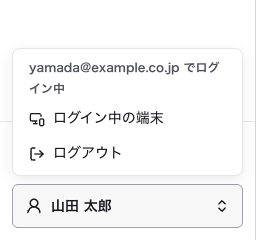
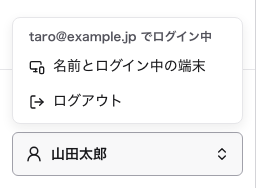
Document members and invitations in the user guide

diff --git a/docs/guide/members.md b/docs/guide/members.md
@@ -1,0 +1,91 @@
+# メンバーと招待
+
+管理画面を使える人（メンバー）を増やしたり、役割を変えたり、外したりします。
+**管理者だけ** が使えます。編集者には、メニューに「メンバー」が出ません。
+
+![「メンバー」の画面。「メンバーの一覧」に名前・メール・役割・追加した日が並び、下に「返事待ちの招待」がある](./images/members.png)
+
+## 新しい人を招待するには
+
+1. メニューの「メンバー」を押します。
+2. 右上の「メンバーを招待」を押します。
+3. 招待する人の **メールアドレス** を入れ、**役割**（編集者か管理者）を選びます。
+4. 「招待のメールを送る」を押します。
+
+![「メンバーを招待」のダイアログ。メールアドレスの欄と、編集者・管理者の選択、「招待のメールを送る」ボタン](./images/member-invite.png)
+
+招待した人には、「「（サイトの名前）」の管理画面に招待されました」という件名のメールが届きます。
+その人がメールのリンクを開いて「参加する」を押すと、メンバーになります。
+それまでは、画面の下の「返事待ちの招待」に出ます。
+
+覚えておくこと：
+
+- 招待のリンクは **7日間** 使えます。**1回だけ** 使えます。
+- 招待された人にパスワードは要りません。Pagewright を初めて使う人も、リンクを開いて「参加する」を押すだけで使い始められます。
+- 同じメールアドレスをもう一度招待すると、前の招待は取り消され、新しい役割で招待し直します（前のメールのリンクは使えなくなります）。
+- すでにメンバーになっている人は招待できません。役割を変えたいときは、下の「役割を変えるには」を見てください。
+- 1日に送れる招待のメールの数には上限があります（同じメールアドレスへは1日5通まで）。
+
+### どちらの役割にするか
+
+| できること | 管理者 | 編集者 |
+| --- | --- | --- |
+| 記事・固定ページを書く、公開する | ○ | ○ |
+| カテゴリ・タグ・画像を管理する | ○ | ○ |
+| お問い合わせを見る | ○ | × |
+| サイトの設定を変える | ○ | × |
+| メンバーを招待する、役割を変える、外す | ○ | × |
+
+迷ったら **編集者** にしておき、必要になったら管理者に変えるのがおすすめです。
+
+## 招待のメールが届かないと言われたら
+
+1. 迷惑メールのフォルダを見てもらってください。
+2. 「返事待ちの招待」のメールアドレスにまちがいがないか確かめます。まちがっていたら「取り消す」を押し、正しいアドレスで招待し直します。
+3. 合っていれば「もう一度送る」を押します。新しいリンクを送り、有効期限も7日後に延びます（前に送ったリンクは使えなくなります）。
+
+7日が過ぎて期限が切れた招待には「期限切れ」と出ます。「もう一度送る」で送り直せます。
+期限切れの招待は、30日たつと一覧から自動で消えます。
+
+## 招待を取り消すには
+
+「返事待ちの招待」で、その行の「取り消す」を押します。確認が出たら、もう一度「取り消す」を押します。
+取り消した招待のリンクは使えなくなります。
+
+## 役割を変えるには
+
+「メンバーの一覧」で、その人の行の「管理者にする」か「編集者にする」を押します。すぐに変わります。
+
+- 自分を編集者にするときは、確認が出ます。編集者になると、この画面は使えなくなります。管理者に戻るには、ほかの管理者に頼んでください。
+- サイトには、いつも **1人以上の管理者** が必要です。管理者が自分1人のときは、自分を編集者にできません。先にほかの人を管理者にしてください。
+
+## メンバーを外すには
+
+担当を外れた人や、退職した人は、サイトから外します。
+
+1. 「メンバーの一覧」で、その人の行の「外す」を押します。
+2. 確認が出たら、もう一度「外す」を押します。
+
+- 外した人は、ログイン中でも、すぐにこのサイトの管理画面を使えなくなります。
+- **その人が書いた記事・固定ページや、入れた画像は消えません。** サイトにそのまま残り、ほかのメンバーが続けて直せます。
+- その人がほかのサイトのメンバーでもあるときは、そちらはそのまま使えます。
+- もう一度招待すれば、また参加できます。
+- 最後の管理者は外せません。
+
+自分がサイトから抜けるときは、自分の行の「抜ける」を押します。抜けたあとに戻るには、ほかの管理者にもう一度招待してもらいます。
+
+## 招待されたときは
+
+招待のメールのリンクを開くと、「サイトへの招待」の画面が出ます。
+
+![「サイトへの招待」の画面。サイト「山田工務店」の管理画面に、編集者として招待されていることと、名前の欄、「参加する」ボタン](./images/invite-accept.png)
+
+1. どのサイトに、どの役割で招待されたかを確かめます。
+2. 初めて Pagewright を使うときは、「あなたの名前」を入れます（空のままでもかまいません。あとから変えられます）。
+3. 「参加する」を押します。
+
+そのままログインして、招待されたサイトのホームが出ます。次からは、ふつうの[ログイン](./login.md)で入れます。
+
+- リンクを開いただけでは参加しません。「参加する」を押したときに参加します。
+- 別のメールアドレスでログインしているときは、「いまは別のメールアドレスでログインしています」と出ます。「ログアウトする」を押してから、「参加する」を押してください。
+- 心当たりのない招待なら、何もせずに画面を閉じてください。

diff --git a/docs/guide/login.md b/docs/guide/login.md
@@ -3,6 +3,8 @@
 Pagewright にはパスワードがありません。
 登録したメールアドレスに届く「ログイン用のリンク」でログインします。
 
+初めて使うときは、サイトの管理者から届く招待のメールのリンクを開いて「参加する」を押します（「[招待されたときは](./members.md#招待されたときは)」）。そのままログインできます。
+
 ## ログインするには
 
 1. 管理画面のアドレス（例：`https://admin.example.co.jp/admin/`）を開きます。
@@ -34,18 +36,29 @@ Pagewright にはパスワードがありません。
 1. メニューのいちばん下の、自分の名前を押します。
 2. 「ログアウト」を押します。
 
-![自分の名前を押して開いたメニュー。「ログイン中の端末」と「ログアウト」がある](./images/account-menu.png)
+![自分の名前を押して開いたメニュー。「名前とログイン中の端末」と「ログアウト」がある](./images/account-menu.png)
 
 共用のパソコンで使ったときは、終わったら必ずログアウトしてください。
+
+## 名前を変えるには
+
+メニューのいちばん下や、「メンバー」の一覧に出る自分の名前を変えられます。
+
+1. メニューのいちばん下の、自分の名前を押します。
+2. 「名前とログイン中の端末」を押します。
+3. 「名前」の「あなたの名前」を直して、「名前を保存する」を押します。
+
+![「アカウント」の画面。上に「名前」の欄と「名前を保存する」ボタン、下にログイン中の端末の一覧](./images/account.png)
+
+- 名前は50文字までです。空にすると、名前の代わりにメールアドレスが出ます。
+- 2つ以上のサイトのメンバーのときは、どのサイトでも同じ名前になります。
 
 ## ログイン中の端末を確かめるには
 
 自分のアカウントでログインしているパソコンやスマートフォンの一覧を見られます。
 
 1. メニューのいちばん下の、自分の名前を押します。
-2. 「ログイン中の端末」を押します。
-
-![「アカウント」の画面。ログイン中の端末の一覧に、この端末、iPhone の Safari、Windows の Edge が並ぶ](./images/account.png)
+2. 「名前とログイン中の端末」を押します。「アカウント」の画面の「ログイン中の端末」に一覧が出ます。
 
 一覧には「端末」「最後に使った日時」「ログインした日時」が出ます。いま使っている端末には「この端末」と付きます。
 

diff --git a/docs/guide/troubleshooting.md b/docs/guide/troubleshooting.md
@@ -23,7 +23,21 @@
 
 ### 「管理できるサイトがありません」と出る
 
-そのメールアドレスは登録されていますが、どのサイトにも入っていません。サイトの管理者に連絡してください。
+そのメールアドレスは登録されていますが、どのサイトにも入っていません（メンバーから外された場合もこうなります）。
+サイトの管理者に、そのメールアドレスを招待してもらってください（「[メンバーと招待](./members.md)」）。
+
+### 「この招待のリンクは使えません」と出る
+
+招待のリンクは **1回だけ** 使えます。次のどれかです。
+
+- すでに参加している：ふつうに[ログイン](./login.md)してください。
+- 招待が取り消された、または新しい招待のメールが送られた：いちばん新しいメールのリンクを使ってください。
+
+「招待の有効期限が切れています」と出たときは、招待した人に「もう一度送る」を押してもらってください。
+
+### 招待のリンクを開くと「別のメールアドレスでログインしています」と出る
+
+招待されたのとは別のアドレスでログインしています。「ログアウトする」を押してから、「参加する」を押してください。
 
 ### いつの間にかログアウトしていた
 
@@ -92,9 +106,13 @@ WordPress などから移行した記事の「カスタムHTML」の枠は、管
 
 ## そのほか
 
-### メニューに「お問い合わせ」「サイトの設定」がない
+### メニューに「お問い合わせ」「メンバー」「サイトの設定」がない
 
-この2つは管理者だけが使えます。変更が必要なときは、サイトの管理者に頼んでください。
+この3つは管理者だけが使えます。変更が必要なときは、サイトの管理者に頼んでください。
+
+### メンバーを外せない、役割を変えられない
+
+サイトには、いつも1人以上の管理者が必要です。管理者が1人だけのときは、その人を外したり編集者にしたりできません。先にほかの人を管理者にしてください。
 
 ### お問い合わせのメールが届かない
 

diff --git a/docs/guide/index.md b/docs/guide/index.md
@@ -26,7 +26,7 @@ Pagewright には、2つの画面があります。
 - **いちばん上**：いま管理しているサイトの名前（「管理中のサイト」）
 - **ホーム**：いまの状況と、次にやること
 - **記事**・**固定ページ**・**カテゴリ**・**タグ**：サイトの中身を作る
-- **お問い合わせ**・**サイトの設定**：管理者だけに出ます
+- **お問い合わせ**・**メンバー**・**サイトの設定**：管理者だけに出ます
 - **いちばん下**：「公開サイトを見る」と、自分の名前（アカウントのメニュー）
 
 ## 記事と固定ページのちがい
@@ -51,8 +51,10 @@ Pagewright には、2つの画面があります。
 | サイトを更新する | ○ | ○ |
 | お問い合わせを見る | ○ | × |
 | サイトの設定を変える | ○ | × |
+| メンバーを招待する、役割を変える、外す | ○ | × |
 
-編集者には、メニューに「お問い合わせ」と「サイトの設定」が出ません。
+編集者には、メニューに「お問い合わせ」「メンバー」「サイトの設定」が出ません。
+使う人を増やすときは、管理者が「[メンバーと招待](./members.md)」から招待します。
 
 ## スマートフォンで使う
 

diff --git a/docs/install/backup.md b/docs/install/backup.md
@@ -5,7 +5,7 @@
 
 | 入るもの | 入らないもの |
 | --- | --- |
-| 記事（古い版も）、カテゴリー・タグ、メニュー、サイトの設定、お問い合わせ、ユーザー、画像 | 公開サイトのファイル（復元のあとで作り直す）、ログインの状態（復元したら全員ログインし直す）、送信待ちのメール、`.env` |
+| 記事（古い版も）、カテゴリー・タグ、メニュー、サイトの設定、お問い合わせ、ユーザー、画像 | 公開サイトのファイル（復元のあとで作り直す）、ログインの状態（復元したら全員ログインし直す）、返事待ちの招待（復元したら招待し直す）、送信待ちのメール、`.env` |
 
 `.env` はバックアップに入らないので、別の安全な場所に控えておきます。
 記事の古い版（保存の履歴）は自動で消えます（30日より前の版は、記事ごとに新しい50個と公開中・予約中の版だけ残ります）。それより前の内容が必要になったときは、バックアップから戻します。

diff --git a/docs/install/setup.md b/docs/install/setup.md
@@ -72,6 +72,7 @@ https://admin.example.co.jp/admin/login/verify?token=...
 `https://<公開サイトのドメイン>/` を開いて表示を確かめてください。
 
 2回目からは、管理画面のログイン画面でメールアドレスを入れると、ログイン用リンクがメールで届きます。
+ほかに管理画面を使う人は、管理画面の「メンバー」から招待します（`init` で作るのは最初の管理者だけです）。
 
 ## 7. バックアップを設定する
 
